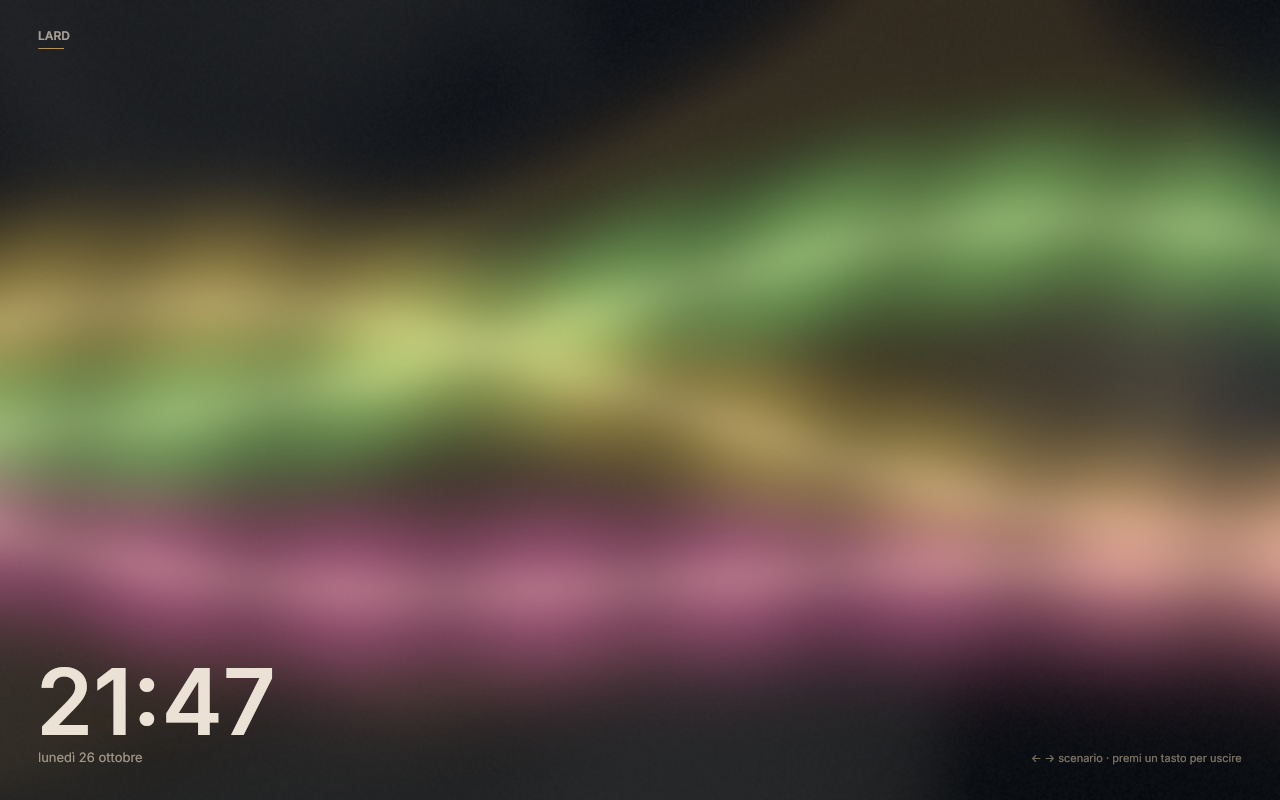
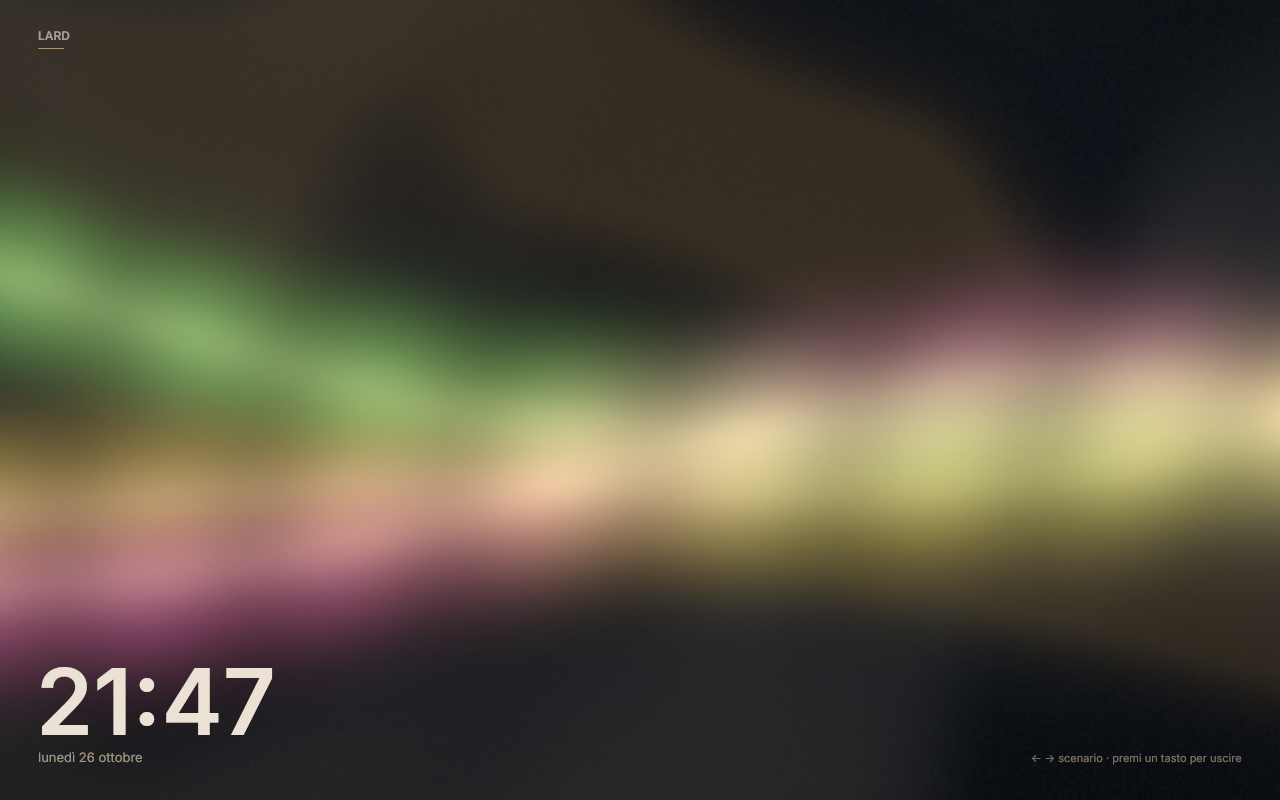
feat(screensaver): sei scenari, tutti sulla stessa simulazione
Aggiunge Vortice (il liquido letto attraverso una spirale), Onde (la stessa
forma deformata da onde concentriche) e Tempesta (onde larghe e lente), per
un totale di sei scenari con ← →.

Per non far esplodere il compilatore degli shader (con sei corpi inlinati il
software rasteriser delle preview produceva immagini nere o corrotti) ora
c'è un solo call-site del corpo liquido: ogni scenario è un diverso warp
dello spazio di campionamento più uno stile di shading, non una funzione in
più. Il campo ha 8 capsule invece di 11 e la normali usano le differenze
finite già usate per l'antialiasing.

Corrette anche due cose scoperte strada facendo: il target a metà
risoluzione va azzerato trasparente (con un clear opaco l'alpha del
burn-in spariva) e gli errori wgpu finiscono anche su stderr, così un
fallimento di validazione non sembra più uno schermo nero.

diff --git a/crates/lard-shell/src/settings.rs b/crates/lard-shell/src/settings.rs
@@ -1547,11 +1547,11 @@ impl SettingsView {
             dimmed,
         );
 
-        // Effect picker: three chips, the selected one carries the accent.
-        let rect = Rect::new(content.x, y + 98.0, content.w, 46.0);
+        // Scenario picker: two rows of three, the selected one is accented.
+        let rect = Rect::new(content.x, y + 96.0, content.w, 72.0);
         scene.text(
             "Scenario",
-            Point::new(rect.x + 8.0, rect.y + 4.0),
+            Point::new(rect.x + 8.0, rect.y + 14.0),
             TextStyle {
                 size: fonts.size_body,
                 weight: fonts.weight_medium,
@@ -1565,21 +1565,23 @@ impl SettingsView {
             } else {
                 "Frecce ← → per cambiarli al volo"
             },
-            Point::new(rect.x + 8.0, rect.y + 24.0),
+            Point::new(rect.x + 8.0, rect.y + 36.0),
             TextStyle {
                 size: fonts.size_small - 1.0,
                 ..Default::default()
             },
             theme.text_muted.scale_alpha(0.58 * p),
         );
-        let chip_h = 30.0;
-        let gap = 8.0;
-        let chip_w = ((rect.w * 0.34 - gap * 2.0) / 3.0).clamp(78.0, 150.0);
+        let chip_h = 28.0;
+        let gap = 6.0;
+        let chip_w = ((rect.w * 0.44 - gap * 2.0) / 3.0).clamp(70.0, 124.0);
         let total = chip_w * 3.0 + gap * 2.0;
         for (index, effect) in lard_core::theme::ScreensaverEffect::ALL.iter().enumerate() {
+            let column = (index % 3) as f32;
+            let row = (index / 3) as f32;
             let chip = Rect::new(
-                rect.right() - total + index as f32 * (chip_w + gap),
-                rect.y + 8.0,
+                rect.right() - total + column * (chip_w + gap),
+                rect.y + 4.0 + row * (chip_h + gap),
                 chip_w,
                 chip_h,
             );
@@ -1630,7 +1632,7 @@ impl SettingsView {
 
         self.toggle_row(
             scene,
-            Rect::new(content.x, y + 146.0, content.w, 46.0),
+            Rect::new(content.x, y + 174.0, content.w, 46.0),
             "Casuale",
             "Scenario e composizione diversi a ogni ingresso",
             saver.random,
@@ -1640,7 +1642,7 @@ impl SettingsView {
         );
         self.stepper_row_state(
             scene,
-            Rect::new(content.x, y + 194.0, content.w, 46.0),
+            Rect::new(content.x, y + 220.0, content.w, 46.0),
             "Vetro",
             &format!(
                 "{}%",
@@ -1654,7 +1656,7 @@ impl SettingsView {
         );
         self.stepper_row_state(
             scene,
-            Rect::new(content.x, y + 242.0, content.w, 46.0),
+            Rect::new(content.x, y + 266.0, content.w, 46.0),
             "Ingresso",
             &format!("{:.1} s", saver.entrance_secs()),
             SettingsAction::Step(Step::ScreensaverEntrance, -100),
@@ -1665,7 +1667,7 @@ impl SettingsView {
         );
         self.stepper_row_state(
             scene,
-            Rect::new(content.x, y + 290.0, content.w, 46.0),
+            Rect::new(content.x, y + 312.0, content.w, 46.0),
             "Velocità",
             &format!("{:.1}×", saver.speed),
             SettingsAction::Step(Step::ScreensaverSpeed, -1),
@@ -1676,7 +1678,7 @@ impl SettingsView {
         );
         self.stepper_row_state(
             scene,
-            Rect::new(content.x, y + 338.0, content.w, 46.0),
+            Rect::new(content.x, y + 358.0, content.w, 46.0),
             "Intensità",
             &format!("{}%", (saver.intensity * 100.0).round() as u32),
             SettingsAction::Step(Step::ScreensaverIntensity, -5),
@@ -1687,7 +1689,7 @@ impl SettingsView {
         );
         self.toggle_row(
             scene,
-            Rect::new(content.x, y + 386.0, content.w, 46.0),
+            Rect::new(content.x, y + 404.0, content.w, 46.0),
             "Orologio",
             "Ora e data nell'angolo del salvaschermo",
             saver.show_clock,
@@ -1697,7 +1699,7 @@ impl SettingsView {
         );
         scene.text(
             "Il desktop si congela in vetro e le forme bruciano dentro. Frecce per gli scenari.",
-            Point::new(content.x, y + 444.0),
+            Point::new(content.x, y + 458.0),
             TextStyle {
                 size: fonts.size_small - 1.0,
                 ..Default::default()
@@ -1772,7 +1774,7 @@ impl SettingsView {
         }
         scene.text(
             "La configurazione è TOML e viene salvata con backup .toml.bak.",
-            Point::new(content.x, y + 290.0),
+            Point::new(content.x, y + 312.0),
             TextStyle {
                 size: config.font.size_small - 1.0,
                 ..Default::default()

diff --git a/crates/lard-render/src/renderer.rs b/crates/lard-render/src/renderer.rs
@@ -777,6 +777,9 @@ impl Renderer {
             FluidMode::Liquid => 0u32,
             FluidMode::Mercury => 1u32,
             FluidMode::Aurora => 2u32,
+            FluidMode::Vortex => 3u32,
+            FluidMode::Ripples => 4u32,
+            FluidMode::Storm => 5u32,
         };
         let data = FluidGpu {
             screen: [screen.0 as f32, screen.1 as f32],
@@ -821,7 +824,10 @@ impl Renderer {
                 depth_slice: None,
                 resolve_target: None,
                 ops: wgpu::Operations {
-                    load: wgpu::LoadOp::Clear(wgpu::Color::BLACK),
+                    // Transparent clear: the shader writes premultiplied colour,
+                    // so the alpha of the layer has to survive to the output
+                    // (the flood and the burn-in depend on it).
+                    load: wgpu::LoadOp::Clear(wgpu::Color::TRANSPARENT),
                     store: wgpu::StoreOp::Store,
                 },
             });

diff --git a/crates/lard-core/src/theme.rs b/crates/lard-core/src/theme.rs
@@ -444,10 +444,23 @@ pub enum ScreensaverEffect {
     Mercury,
     /// Iridescent fluid ribbons.
     Aurora,
+    /// The same liquid, caught in a slow whirlpool.
+    Vortex,
+    /// A glassy water surface with interfering ripples.
+    Ripples,
+    /// Slow, heavy clouds of liquid.
+    Storm,
 }
 
 impl ScreensaverEffect {
-    pub const ALL: [Self; 3] = [Self::Liquid, Self::Mercury, Self::Aurora];
+    pub const ALL: [Self; 6] = [
+        Self::Liquid,
+        Self::Mercury,
+        Self::Aurora,
+        Self::Vortex,
+        Self::Ripples,
+        Self::Storm,
+    ];
 
     #[must_use]
     pub const fn label(self) -> &'static str {
@@ -455,6 +468,9 @@ impl ScreensaverEffect {
             Self::Liquid => "Liquido",
             Self::Mercury => "Mercurio",
             Self::Aurora => "Aurora",
+            Self::Vortex => "Vortice",
+            Self::Ripples => "Onde",
+            Self::Storm => "Tempesta",
         }
     }
 }

diff --git a/crates/lard-shell/src/screensaver.rs b/crates/lard-shell/src/screensaver.rs
@@ -99,7 +99,10 @@ impl Screensaver {
         self.seed = self.next_random();
         self.next_seed = self.seed;
         self.mode = if settings.random {
-            ScreensaverEffect::ALL[(self.next_random() * 3.0) as usize % 3]
+            {
+                let count = ScreensaverEffect::ALL.len();
+                ScreensaverEffect::ALL[(self.next_random() * count as f32) as usize % count]
+            }
         } else {
             settings.effect
         };
@@ -270,6 +273,9 @@ fn fluid_mode(effect: ScreensaverEffect) -> FluidMode {
         ScreensaverEffect::Liquid => FluidMode::Liquid,
         ScreensaverEffect::Mercury => FluidMode::Mercury,
         ScreensaverEffect::Aurora => FluidMode::Aurora,
+        ScreensaverEffect::Vortex => FluidMode::Vortex,
+        ScreensaverEffect::Ripples => FluidMode::Ripples,
+        ScreensaverEffect::Storm => FluidMode::Storm,
     }
 }
 

diff --git a/crates/lard-shell/examples/preview.rs b/crates/lard-shell/examples/preview.rs
@@ -393,6 +393,9 @@ fn main() -> anyhow::Result<()> {
         (lard_core::theme::ScreensaverEffect::Liquid, "screensaver-liquid"),
         (lard_core::theme::ScreensaverEffect::Mercury, "screensaver-mercury"),
         (lard_core::theme::ScreensaverEffect::Aurora, "screensaver-aurora"),
+        (lard_core::theme::ScreensaverEffect::Vortex, "screensaver-vortex"),
+        (lard_core::theme::ScreensaverEffect::Ripples, "screensaver-ripples"),
+        (lard_core::theme::ScreensaverEffect::Storm, "screensaver-storm"),
     ] {
         let mut preview_config = config.clone();
         preview_config.screensaver.effect = effect;

diff --git a/crates/lard-render/src/gpu.rs b/crates/lard-render/src/gpu.rs
@@ -77,6 +77,10 @@ impl Gpu {
         .context("failed to create wgpu device")?;
 
         device.on_uncaptured_error(Arc::new(|error| {
+            // Also on stderr: headless tools (previews, probes) do not install a
+            // tracing subscriber, and a swallowed validation error used to look
+            // like a black screen.
+            eprintln!("wgpu: {error}");
             tracing::error!(%error, "wgpu validation error");
         }));
 

diff --git a/crates/lard-render/src/scene.rs b/crates/lard-render/src/scene.rs
@@ -190,6 +190,9 @@ pub enum FluidMode {
     Liquid,
     Mercury,
     Aurora,
+    Vortex,
+    Ripples,
+    Storm,
 }
 
 /// Full-screen animated background.

diff --git a/README.md b/README.md
@@ -185,7 +185,7 @@ la configurazione al volo).
 | **Scala frazionaria** | Scala intera (`wl_output.scale`). 1.25/1.5x viene scalato dal compositor. |
 | **Icone applicazioni / emoji** | Le icone delle app sono quelle reali del tema icone: PNG/JPEG/WebP via `image`, SVG rasterizzate con `resvg` (risolte in `hicolor`, nei theme Adwaita e negli export Flatpak). Non sono supportati XPM/ICO e le emoji a colori vengono rese come maschere monocromatiche nell'atlas R8 (nomi Wi‑Fi e titoli restano leggibili). |
 | **Hot reload config** | ✅: watcher inotify su `config.toml` (e `lard ipc reload` manuale). Ricarica tema/layout/font e ricrea le superfici; i parametri dei singoli spring restano quelli dell'avvio. |
-| **Salvaschermo** | Integrato nella shell e interamente procedurale: una stanza di nebbia volumetrica con caustiche, due masse liquide a profondità diverse (Liquido, Mercurio, Aurora) valutate nel fragment shader, senza immagini, sprite o particelle. Ingresso e uscita sono un burn-in (prima le luci in sovrimpressione, poi i corpi, per ultima la stanza) e le frecce ← → cambiano scenario con un crossfade, senza slideshow automatici. Regolabile dalle impostazioni: inattività, scenario o casuale, ingresso, vetro, velocità, intensità, orologio. L'idle arriva da `ext-idle-notify-v1` (nessun `swayidle`), la surface è un layer overlay per output e qualsiasi altro tasto o movimento la chiude. Non blocca la sessione: per quello c'è `lard lock`. |
+| **Salvaschermo** | Integrato nella shell e interamente procedurale: una stanza di nebbia volumetrica con caustiche, sei scenari — Liquido, Mercurio, Aurora, Vortice, Onde, Tempesta — valutati nel fragment shader, senza immagini, sprite o particelle. Ingresso e uscita sono un burn-in (prima le luci in sovrimpressione, poi i corpi, per ultima la stanza) e le frecce ← → cambiano scenario con un crossfade, senza slideshow automatici. Regolabile dalle impostazioni: inattività, scenario o casuale, ingresso, vetro, velocità, intensità, orologio. L'idle arriva da `ext-idle-notify-v1` (nessun `swayidle`), la surface è un layer overlay per output e qualsiasi altro tasto o movimento la chiude. Non blocca la sessione: per quello c'è `lard lock`. |
 
 ---
 
